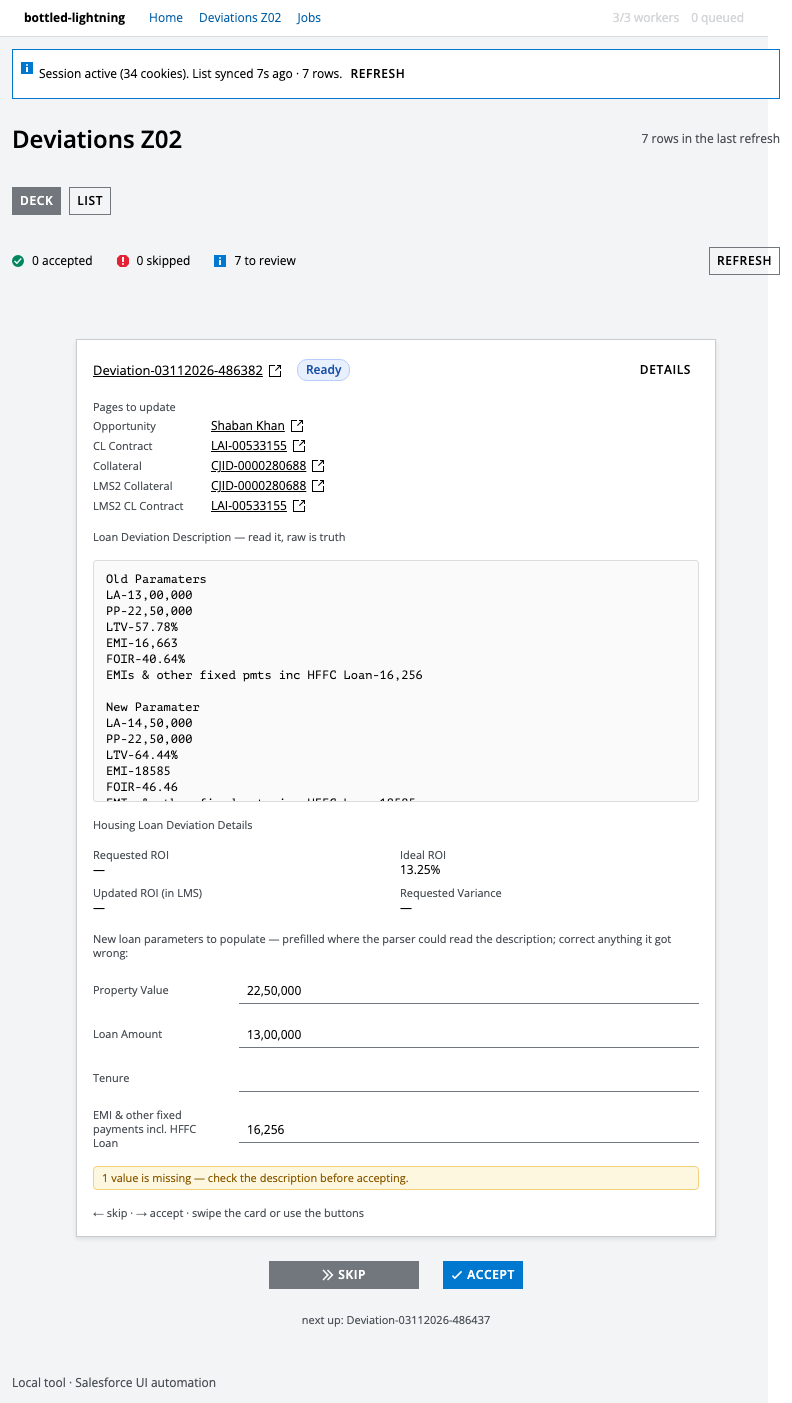
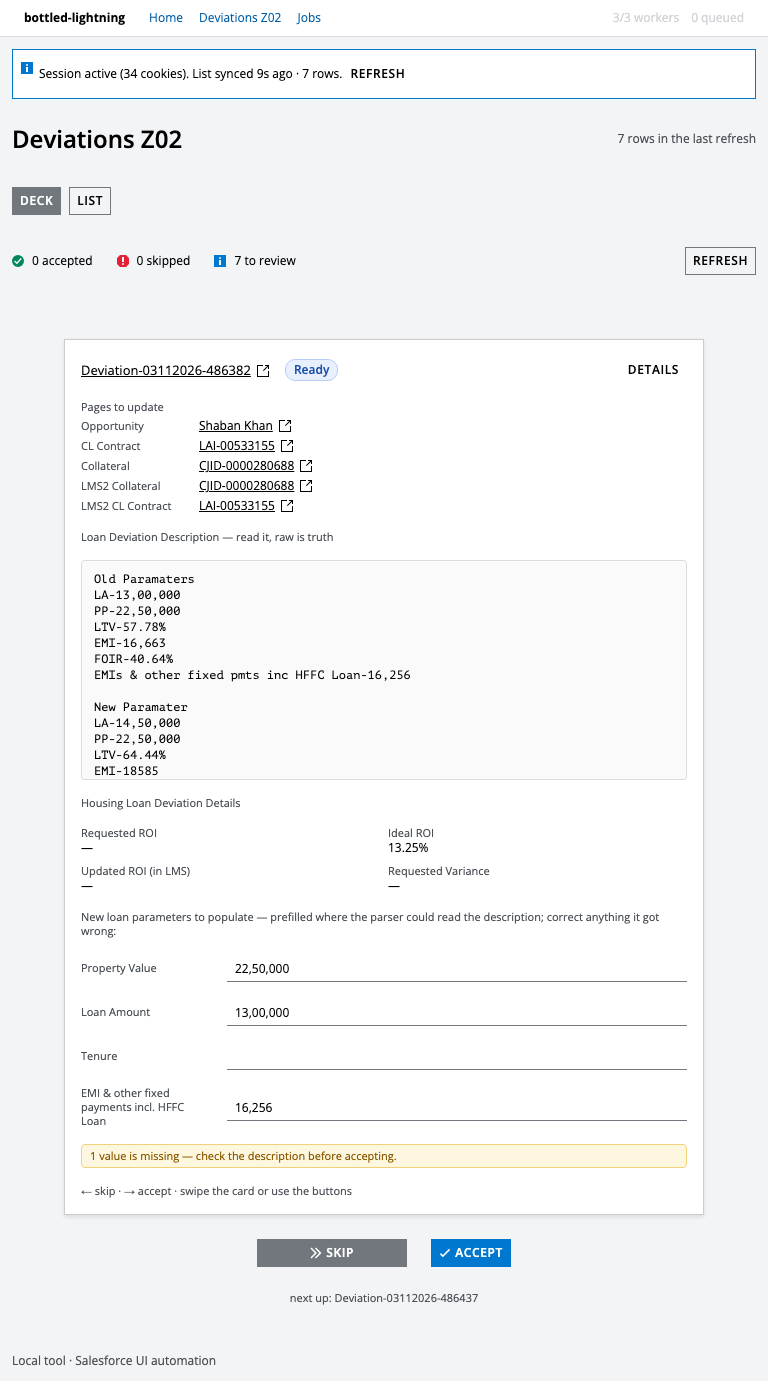
Make the shell responsive and keep deck text selectable
Horizontal scrollbars came from .content being width:100% plus 24px of padding
without border-box, so every page overflowed by the padding. The list added its
own overflow from a non-wrapping filter row and a wide table.

- global border-box fixes the page overflow at every width (this is why the
  scrollbar appeared everywhere, not just the deck)
- filters wrap; the list drops to Status + Deviation at 600px instead of
  scrolling sideways; long values wrap anywhere
- the deck description/ROI/page-ref panels are selectable: the drag is skipped
  over them (data-no-swipe) and over buttons/links/inputs, so selecting text to
  copy never moves the card; swiping still works from the card body and the
  buttons/keys are unchanged
- tools/audit_layout.py audits Home, deck, list, Jobs and an item detail at
  390/768/1280 and exits non-zero if anything overflows
- docs: FR-9.13, frontend design v3.1 (responsive + selection rules), refactor plan

Checks: 151 backend tests, 24 frontend, ruff, mypy strict, tsc, oxlint, build;
audit 0 overflows. Live: selected text from the description and read it back via
window.getSelection; a header/body drag still translates the card.

diff --git a/frontend/src/index.css b/frontend/src/index.css
@@ -1,4 +1,10 @@
-/* Slice A layout. Salt tokens only; no colour literals except tone tints. */
+/* Layout. Salt tokens only; no colour literals except tone tints. */
+
+*,
+*::before,
+*::after {
+  box-sizing: border-box;
+}
 
 .shell {
   min-height: 100vh;
@@ -139,11 +145,25 @@
 
 .filters {
   align-items: end;
+  flex-wrap: wrap;
+}
+
+.filters label {
+  display: flex;
+  flex-direction: column;
+  gap: 2px;
+  flex: 1 1 180px;
+  min-width: 0;
+}
+
+.filters .saltInput {
+  width: 100%;
 }
 
 .filters select,
 .filters input {
-  min-width: 180px;
+  min-width: 0;
+  width: 100%;
 }
 
 /* --- detail drawer ----------------------------------------------------- */
@@ -323,6 +343,13 @@
   }
 }
 
+@media (max-width: 600px) {
+  .grid th:nth-child(n + 3),
+  .grid td:nth-child(n + 3) {
+    display: none;
+  }
+}
+
 @media (max-width: 900px) {
   .job-row {
     grid-template-columns: 34px 92px 54px 1fr;
@@ -392,6 +419,13 @@
   margin: 0 auto;
 }
 
+.deck-description,
+.deck-roi,
+.deck-refs,
+.deck-field {
+  user-select: text;
+}
+
 .deck-description {
   max-height: 220px;
   overflow-y: auto;
@@ -404,6 +438,7 @@
 .deck-description-text {
   font-size: 12px;
   white-space: pre-wrap;
+  overflow-wrap: anywhere;
   display: block;
 }
 

diff --git a/frontend/src/components/DecisionCard.tsx b/frontend/src/components/DecisionCard.tsx
@@ -97,7 +97,7 @@ export function DecisionCard({
           ) : null}
 
           {refs.length > 0 ? (
-            <StackLayout gap={0.5}>
+            <StackLayout gap={0.5} className="deck-refs" data-no-swipe>
               <Text color="secondary" styleAs="label">
                 Pages to update
               </Text>
@@ -117,7 +117,7 @@ export function DecisionCard({
           <Text color="secondary" styleAs="label">
             Loan Deviation Description — read it, raw is truth
           </Text>
-          <div className="deck-description">
+          <div className="deck-description" data-no-swipe>
             {detail === null ? (
               <Text color="secondary">loading description…</Text>
             ) : description ? (
@@ -132,7 +132,7 @@ export function DecisionCard({
           <Text color="secondary" styleAs="label">
             Housing Loan Deviation Details
           </Text>
-          <div className="deck-roi">
+          <div className="deck-roi" data-no-swipe>
             {ROI_FIELDS.map((field) => (
               <StackLayout gap={0} key={field.key}>
                 <Text color="secondary" styleAs="label">

diff --git a/frontend/src/components/DecisionDeck.tsx b/frontend/src/components/DecisionDeck.tsx
@@ -132,7 +132,12 @@ export function DecisionDeck({
   function handlePointerDown(event: ReactPointerEvent<HTMLDivElement>): void {
     if (!canAct || event.button !== 0) return
     const target = event.target
-    if (target instanceof HTMLElement && target.closest('button, a, input')) return
+    if (
+      target instanceof HTMLElement &&
+      target.closest('button, a, input, [data-no-swipe]')
+    ) {
+      return
+    }
     event.currentTarget.setPointerCapture(event.pointerId)
     setDrag({
       startX: event.clientX,

diff --git a/tools/audit_layout.py b/tools/audit_layout.py
@@ -1,0 +1,159 @@
+"""Fail when a screen needs horizontal scrolling at the three review widths.
+
+    .venv/bin/python tools/audit_layout.py --url http://localhost:8765
+
+Checks Home, the review deck, the list view, Jobs and one item detail at 390, 768 and
+1280 px. Any element that extends past the viewport, or a document wider than the
+viewport, is reported and makes the command exit non-zero. Dev-only; not shipped.
+"""
+
+from __future__ import annotations
+
+import argparse
+import json
+import sys
+import urllib.parse
+import urllib.request
+from pathlib import Path
+
+sys.path.insert(0, str(Path(__file__).resolve().parent.parent))
+
+from playwright.sync_api import Page, sync_playwright
+
+_AUDIT_JS = """() => {
+    const doc = document.documentElement;
+    const viewport = doc.clientWidth;
+    const offenders = [];
+    for (const element of document.querySelectorAll('*')) {
+        const box = element.getBoundingClientRect();
+        if (box.width === 0 && box.height === 0) continue;
+        if (box.right > viewport + 1 || box.left < -1) {
+            offenders.push({
+                tag: element.tagName.toLowerCase(),
+                classes: typeof element.className === 'string' ? element.className : '',
+                left: Math.round(box.left),
+                right: Math.round(box.right),
+            });
+        }
+    }
+    return { viewport, scrollWidth: doc.scrollWidth, offenders };
+}"""
+
+
+def _report(page: Page) -> tuple[int, int, list[str]]:
+    """Return ``(viewport, scroll_width, offender descriptions)`` for the open page."""
+    raw = page.evaluate(_AUDIT_JS)
+    if not isinstance(raw, dict):
+        raise TypeError("layout audit returned an unexpected payload")
+    viewport = raw.get("viewport")
+    scroll_width = raw.get("scrollWidth")
+    offenders = raw.get("offenders")
+    if not isinstance(viewport, int) or not isinstance(scroll_width, int):
+        raise TypeError("layout audit payload is missing numbers")
+    descriptions: list[str] = []
+    if isinstance(offenders, list):
+        for item in offenders[:8]:
+            if not isinstance(item, dict):
+                continue
+            tag = item.get("tag")
+            classes = item.get("classes")
+            left = item.get("left")
+            right = item.get("right")
+            descriptions.append(
+                f"{tag if isinstance(tag, str) else '?'}"
+                f"{'.' + classes if isinstance(classes, str) and classes else ''}"
+                f" [{left}, {right}]"
+            )
+    return viewport, scroll_width, descriptions
+
+
+def _first_item_key(base_url: str) -> str | None:
+    """One real item key for the detail route; ``None`` when the API is empty."""
+    try:
+        with urllib.request.urlopen(
+            f"{base_url}/api/deviations?limit=1", timeout=10
+        ) as response:
+            payload: object = json.load(response)
+    except OSError:
+        return None
+    if not isinstance(payload, dict):
+        return None
+    rows = payload.get("rows")
+    if not isinstance(rows, list) or not rows:
+        return None
+    first = rows[0]
+    if not isinstance(first, dict):
+        return None
+    key = first.get("key")
+    return key if isinstance(key, str) else None
+
+
+def main(argv: list[str] | None = None) -> int:
+    """Audit every route at each width; return 1 when anything overflows."""
+    parser = argparse.ArgumentParser(prog="tools/audit_layout.py")
+    parser.add_argument("--url", default="http://localhost:8765")
+    parser.add_argument("--widths", default="390,768,1280")
+    parser.add_argument("--wait-ms", type=int, default=900)
+    args = parser.parse_args(argv)
+
+    base = args.url.rstrip("/")
+    widths = [int(part) for part in args.widths.split(",") if part.strip()]
+    key = _first_item_key(base)
+    detail = f"/deviations-z02/{urllib.parse.quote(key)}" if key else None
+
+    failures = 0
+    with sync_playwright() as playwright:
+        browser = playwright.chromium.launch(headless=True)
+        try:
+            for width in widths:
+                page = browser.new_page(viewport={"width": width, "height": 900})
+                for route in ("/", "/deviations-z02", "/jobs"):
+                    page.goto(base + route, wait_until="networkidle", timeout=60_000)
+                    page.wait_for_timeout(args.wait_ms)
+                    viewport, scroll_width, offenders = _report(page)
+                    label = f"{route} {width}px"
+                    if scroll_width > viewport:
+                        failures += 1
+                        print(f"FAIL {label}: scrollWidth {scroll_width} > {viewport}")
+                        for offender in offenders:
+                            print(f"     {offender}")
+                    else:
+                        print(f"ok   {label}")
+
+                # The list view shares the route but changes the layout.
+                page.goto(base + "/deviations-z02", wait_until="networkidle")
+                page.wait_for_timeout(args.wait_ms)
+                page.get_by_role("button", name="List").click()
+                page.wait_for_timeout(args.wait_ms)
+                viewport, scroll_width, offenders = _report(page)
+                label = f"/deviations-z02 (list) {width}px"
+                if scroll_width > viewport:
+                    failures += 1
+                    print(f"FAIL {label}: scrollWidth {scroll_width} > {viewport}")
+                    for offender in offenders:
+                        print(f"     {offender}")
+                else:
+                    print(f"ok   {label}")
+
+                if detail is not None:
+                    page.goto(base + detail, wait_until="networkidle")
+                    page.wait_for_timeout(args.wait_ms)
+                    viewport, scroll_width, offenders = _report(page)
+                    label = f"item detail {width}px"
+                    if scroll_width > viewport:
+                        failures += 1
+                        print(f"FAIL {label}: scrollWidth {scroll_width} > {viewport}")
+                        for offender in offenders:
+                            print(f"     {offender}")
+                    else:
+                        print(f"ok   {label}")
+                page.close()
+        finally:
+            browser.close()
+
+    print(f"\n{failures} overflow(s)")
+    return 1 if failures else 0
+
+
+if __name__ == "__main__":
+    raise SystemExit(main())

diff --git a/docs/frontend-design-deviations.md b/docs/frontend-design-deviations.md
@@ -3,7 +3,7 @@
 | | |
 |---|---|
 | **Status** | Draft for review |
-| **Version** | v3 |
+| **Version** | v3.1 |
 | **Date** | 2026-11-04 |
 | **Feature** | Loan deviations (Z02) |
 | **Companions** | `docs/FR-deviations.md`, `docs/api-deviations.md`, `docs/refactor-plan-deviations.md` |
@@ -264,6 +264,9 @@ Rules:
   danger/neutral); the tone never carries meaning alone.
 - One deck, one table, one drawer. Desktop-first (operator laptop, ≥1280 px); the drawer
   becomes a full page below 900 px; card, table and drawer are usable at 390 px.
+- **No horizontal page scrolling at 390/768/1280 px.** The shell is border-box; filters
+  wrap; the list drops to Status + Deviation at 600 px instead of scrolling sideways.
+  Long values wrap (`overflow-wrap: anywhere`), never widen the page.
 - Deck card: Salt `Card elevation="raised"`, max-width 640 px, centred (the legacy
   width). One card at a time; the next item is named below it, not stacked behind it.
   The accept stamp is success-toned, the skip stamp danger-toned; both are text
@@ -278,10 +281,12 @@ Rules:
 ## 8. Accessibility and feedback
 
 - WCAG 2.2 AA: focus visible, 4.5:1 text contrast, 24 px targets, no motion required.
-- The deck is fully operable with buttons and keys; swiping is additive. The top card is a
-  `group` with `aria-roledescription="review card"` and the action buttons are always in
-  the tab order. Decision results go to an `aria-live="polite"` line ("Accepted … · 2
-  left"), never to a modal.
+- The deck is fully operable with buttons and keys; swiping is additive. The action
+  buttons are always in the tab order. Decision results go to an `aria-live="polite"`
+  line ("Accepted … · deck complete"), never to a modal.
+- **All data text is selectable.** The card suppresses its drag over buttons, links,
+  inputs and the description/ROI/ref panels, so selecting text to copy never moves the
+  card. The description panel carries `data-no-swipe` and `user-select: text`.
 - The drawer traps focus and returns it on close; `Esc` closes it.
 - Job/status changes announced through `aria-live="polite"` (no per-second spam: only
   status changes, not elapsed time).
@@ -307,6 +312,7 @@ Rules:
 | Components | RTL + MSW | disabled rules per status, field error rendering, submit confirmation, paused banner |
 | Deck | RTL + MSW | accept/reject buttons, keyboard, undo, failed decision keeps the card, undone card returns |
 | States | `/dev/states` route + Playwright screenshots | every row of the matrix, at 390/768/1280 |
+| Responsive | `tools/audit_layout.py` | fails when any route needs horizontal scrolling at 390/768/1280 |
 | Contract | generated types + MSW handlers | a field rename on the backend breaks typecheck |
 
 Visual review loop: build → run → screenshot the state harness at three widths → inspect

diff --git a/docs/FR-deviations.md b/docs/FR-deviations.md
@@ -3,7 +3,7 @@
 | | |
 |---|---|
 | **Status** | Draft for review |
-| **Version** | v5.2 |
+| **Version** | v5.3 |
 | **Date** | 2026-11-04 |
 | **Scope** | Loan deviations workflow only |
 | **Supersedes** | The pre-refactor behaviour in `app/deviations*`, `app/sync.py`, `app/jobs.py` |
@@ -292,6 +292,11 @@ Automate the extraction, review and update of loan deviations from Salesforce, a
   change that is not regenerated fails the typecheck.
 - **FR-9.12** UI changes ship with screenshots of their state-matrix rows at narrow,
   medium and wide widths.
+- **FR-9.13** No screen requires horizontal scrolling at 390, 768 or 1280 px. The list
+  hides columns and the filters wrap instead of widening the page. All data text (the
+  deck description, ROI values, page refs and detail fields) is selectable so the
+  operator can copy values; a drag gesture must never be the only way to interact, and
+  it must not run on a text panel the operator is selecting.
 
 ### FR-10 Review decisions (accept / reject)
 
@@ -382,6 +387,10 @@ absence while a `SUBMIT` lease was held.
   submit action? (Default: explicit action; acceptance only queues.) | FR-10.6 |
 
 ## Appendix C — Change log
+
+- **v5.3** — responsive requirement (FR-9.13): no horizontal page scrolling at any
+  review width, and all data text stays selectable; the deck omits its drag on the
+  description/ROI/ref panels so values can be copied.
 
 - **v5.2** — the review deck is restored to the legacy card shape: record link, approval
   date, pages to update, raw description, ROI details, four editable prefilled parameters,

diff --git a/docs/refactor-plan-deviations.md b/docs/refactor-plan-deviations.md
@@ -123,6 +123,8 @@ Existing behaviours that must survive the port (they encode hard-won facts):
 - Ambiguity → skip with reason, never a guess.
 - Header-total cross-check.
 - Playwright text locators, not `page.evaluate` DOM scans (except the LMS shadow DOM case).
+- `tools/audit_layout.py` fails CI-style checks when any route needs horizontal scrolling
+  at 390/768/1280 px.
 
 ---
 
